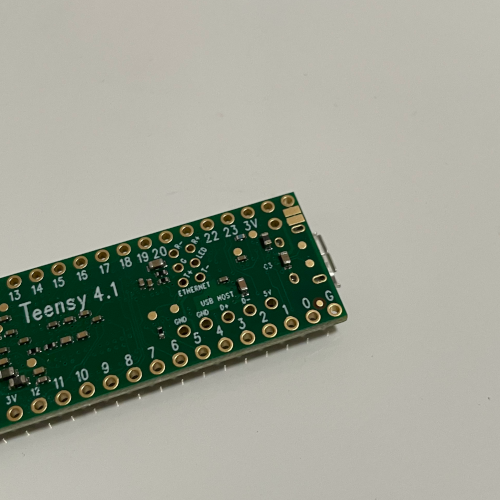
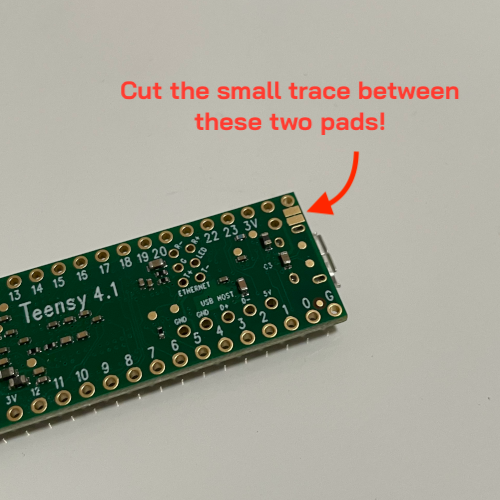
soldering guide
more pictures and text.. work in progress..

Changed region(s): [[0.24, 0.15, 0.93, 0.27], [0.6, 0.3, 0.72, 0.45]]

diff --git a/solder-guide/solderguide.md b/solder-guide/solderguide.md
@@ -6,9 +6,6 @@ Soldering all the components to the PCB and bringing *Beatmaker's Sketchbook* to
 Please read the complete instructions guide and follow the instructions step by step in the described order. <br>
 Some tasks may seem tedious, but in the end it will be satisfying and worth the work. ;)
 
-If you are a complete beginner in soldering, you should learn the basics. There are plenty of videos on Youtube. A good recommendation is [this video](https://www.youtube.com/watch?v=QKbJxytERvg) from Collin's Lab.
-In case you mess something up, you should be familiar with desoldering, too. Another recommendation is [this video](https://www.youtube.com/watch?v=N_dvf45hN6Y) from Collin's Lab.
-
 ## 1. Preparation
 
 To get started with soldering, you will need some preparation. First, get all the tools you need, then clean the big PCB for soldering.
@@ -24,6 +21,21 @@ To get started with soldering, you will need some preparation. First, get all th
 * Lighter
 * Alcohol to clean the PCB (do not use the lighter with the above mentioned alcohol) ;)
 * In case you mess something up, a desoldering pump might be helpful
+* A "third hand" might be helpful at some points, but s not needed. Check out [Omnifixo](https://omnifixo.com/) - it's perfect!
+
+### Bring your skills up to date, if needed
+
+If you are a complete beginner in soldering, you should learn the basics. There are plenty of videos on Youtube. A good recommendation is [this video](https://www.youtube.com/watch?v=QKbJxytERvg) from Collin's Lab.
+
+In case you mess something up, you should be familiar with desoldering, too. Another recommendation is [this video](https://www.youtube.com/watch?v=N_dvf45hN6Y) from Collin's Lab.
+
+If you need information on how to use a multimeter, reading [this article](https://learn.sparkfun.com/tutorials/how-to-use-a-multimeter/all) is a good starting point.
+
+### This is what the result will look like
+
+ToDo:
+- zwei Bilder der Platine ohne Komponenten
+- zwei Bilder komplett bestückt
 
 ### Remove Tabs from PCB
 
@@ -200,11 +212,13 @@ When done, shorten the two power button pins with a jumper. If you bought a comp
 
 ## 15. Encoders
 
-![Encoder](images/encoder.png)
-
+Now it is time to mount the four rotary encoders. If the PCB does not have mounting holes for the encoders "mounting clamp-pins", just cut them off with a wire cutter as shown in the pictures.
 
 ![Encoder](images/encoderCut.png)
 
+Than mount the encoders and solder them to the PCB. Repeat this step for all four encoders.
+
+![Encoder](images/encoder.png)
 
 
 ## 16. Mount ICs
@@ -213,7 +227,19 @@ Remember what they are used for?
 
 ## 17. Install Teensy
 
-Cut Ground Pads (link!)
+### Preparing the teensy for battery power
+If you are not using the power management board and do not power your Beatmaker's sketchbook with a battery, you should skip this step.
+
+Otherwise you need to separate the two pads on the bottom side of your Teensy 4.1. The standard configuration is to use the Teensy with USB power. We will power the teensy from a battery. To not mix the GND from the USB and the battery (which will definitely harm the Teensy!), we need to decouple them by cutting the small trace with a cutter knife.
+
+![Cut pads](images/teensyPADs.png)
+
+To make sure the trace is cut, you can use your multimeter and check if there is a connection or not. You can do this by using the continuity check, which beeps on most multimeters, if there is a connection between the two probes. Place one probe on each pad. If it beeps, there is still a connection. If it does not beep, we are done with this step.
+
+### Solder PINs
+
+### Plug the SD card in
+
 
 ## 18. Mount the Audio Board
 
